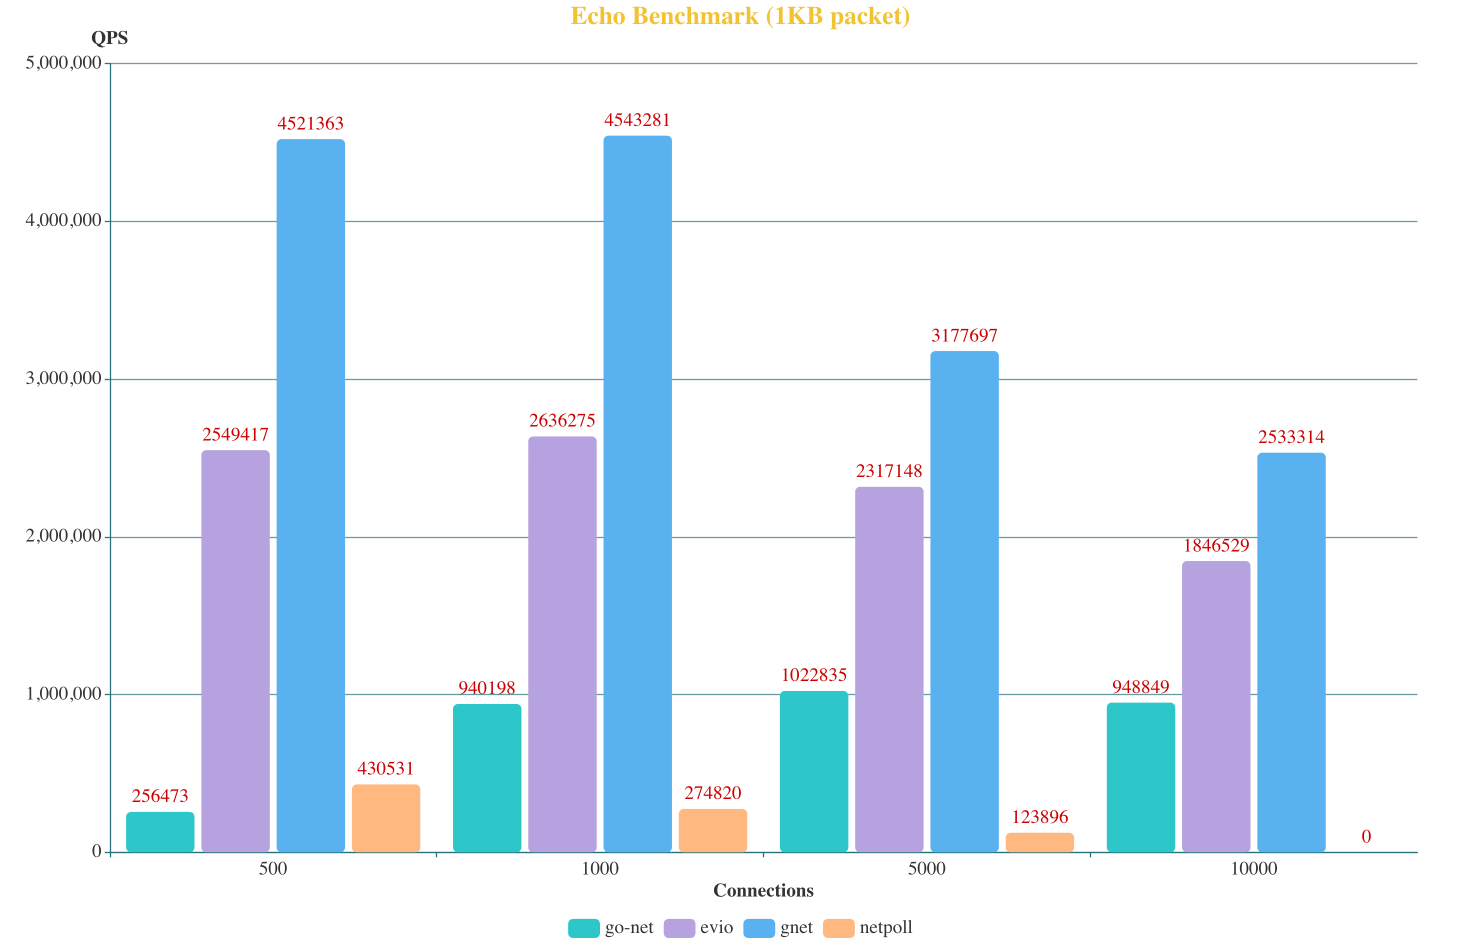
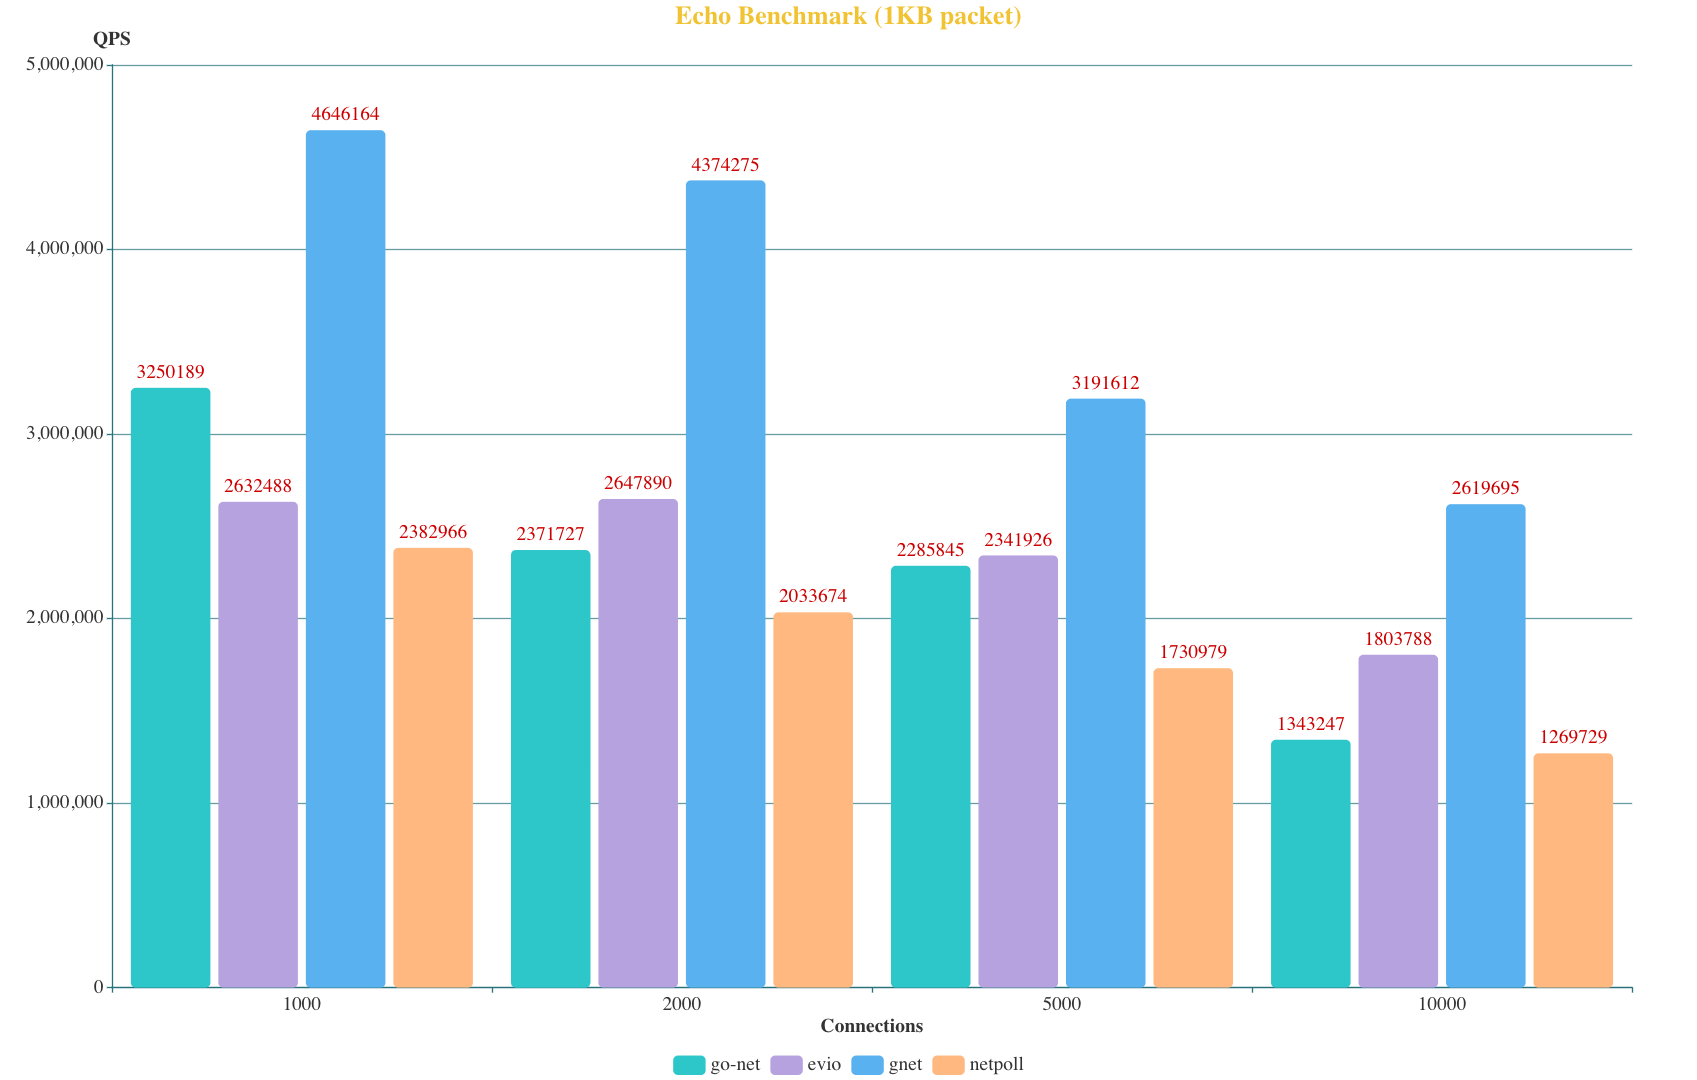
Update benchmark results

Changed region(s): [[0.0, 0.0308, 0.9629, 1.0], [0.3727, 0.0, 0.6212, 0.0308], [0.6212, 0.3383, 0.6833, 0.3998]]

diff --git a/echo-gnet-server/main.go b/echo-gnet-server/main.go
@@ -47,5 +47,5 @@ func main() {
 	flag.BoolVar(&multicore, "multicore", false, "--multicore true")
 	flag.Parse()
 	echo := new(echoServer)
-	log.Fatal(gnet.Serve(echo, fmt.Sprintf("tcp://127.0.0.1:%d", port), gnet.WithMulticore(multicore)))
+	log.Fatal(gnet.Serve(echo, fmt.Sprintf("tcp://127.0.0.1:%d", port), gnet.WithMulticore(multicore), gnet.WithLockOSThread(true)))
 }

diff --git a/README.md b/README.md
@@ -37,11 +37,11 @@ Like all benchmarks ever made in the history of whatever, YMMV. Please tweak and
     Memory : 16.0 GiB
 
 # Go version and settings
-Go Version : go1.16.5 linux/amd64
+Go Version : go1.17.2 linux/amd64
 GOMAXPROCS : 8
 
 # Network settings
-TCP connections : 500/1000/5000/10000
+TCP connections : 1000/2000/5000/10000
 Packet size     : 512/1024/2048/4096/8192/16384/32768/65536 bytes
 Test duration   : 15s
 ```
